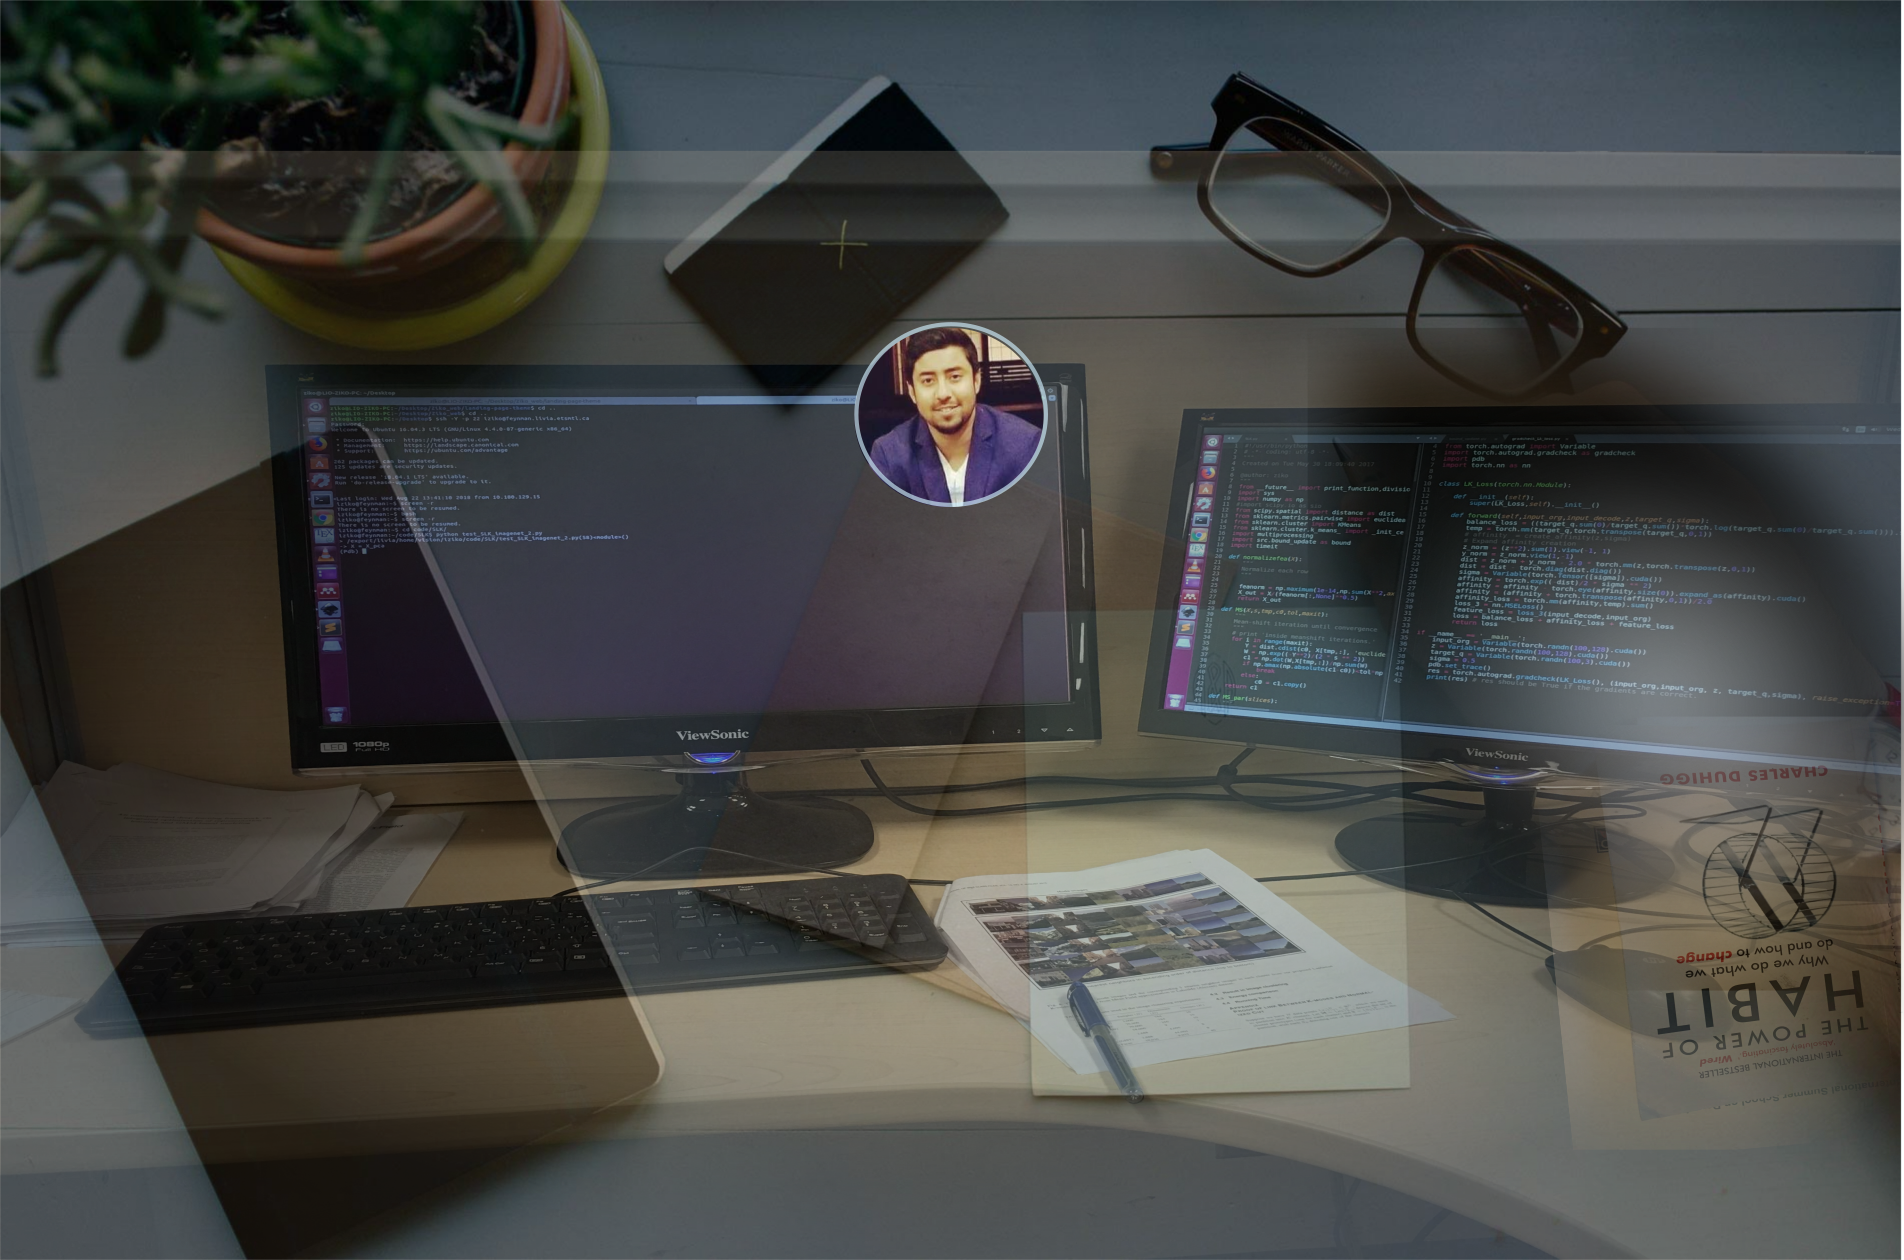
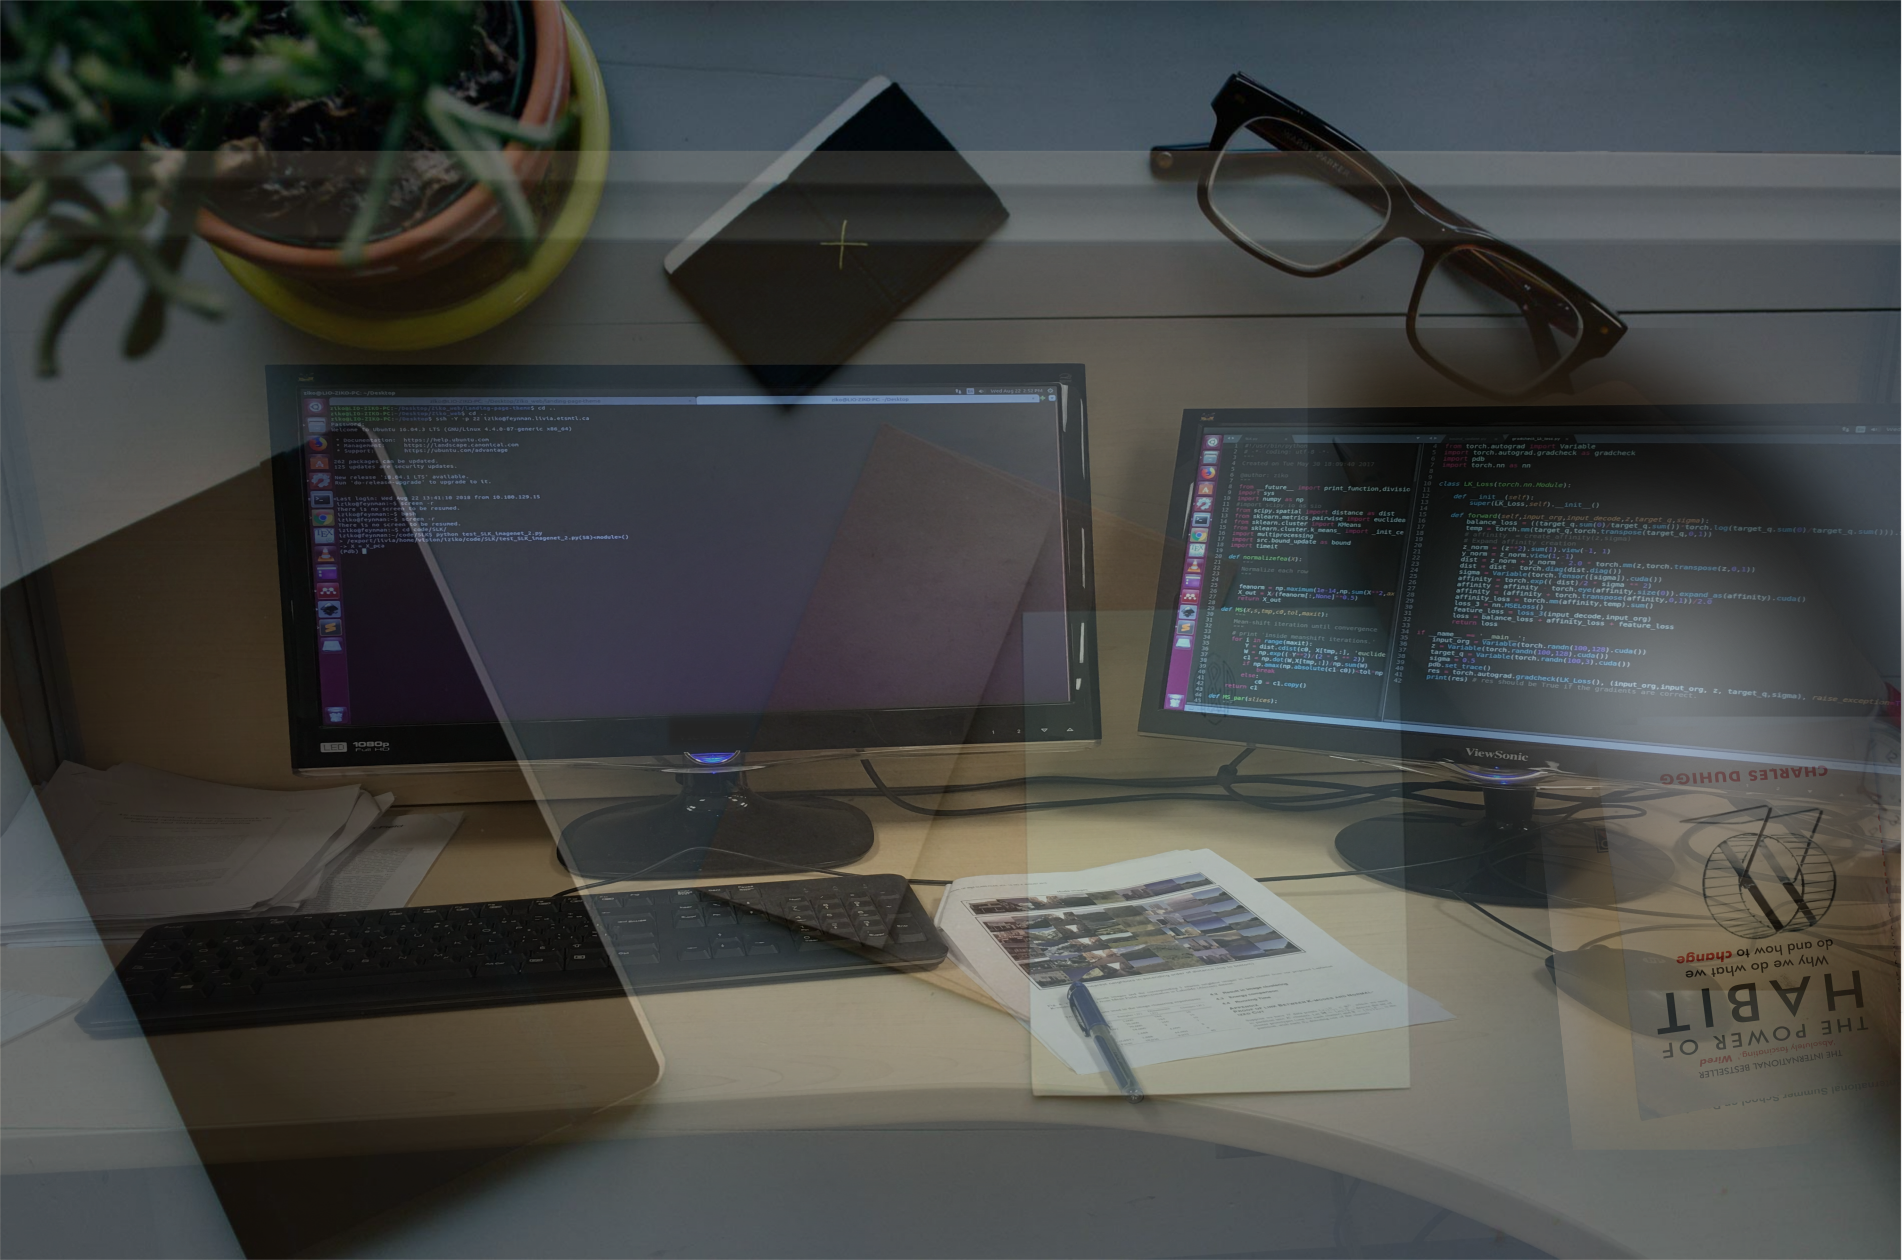
image fix

Changed region(s): [[0.4338, 0.2476, 0.5578, 0.4024]]

diff --git a/_site/css/landing-page.css b/_site/css/landing-page.css
@@ -27,18 +27,23 @@ h6 {
 }
 
 .intro-header {
-    padding-top: 50px; /* If you're making other pages, make sure there is 50px of padding to make sure the navbar doesn't overlap content! */
+    padding-top: 50px;  /*If you're making other pages, make sure there is 50px of padding to make sure the navbar doesn't overlap content! */
     padding-bottom: 50px;
     text-align: center;
     color: #f8f8f8;
     background: url(../img/banner.png) no-repeat center center;
     background-size: cover;
+    /*background-size: 1830px 600px */
 }
 
 .intro-message {
     position: relative;
     padding-top: 20%;
     padding-bottom: 20%;
+}
+.img-circle {
+  border-radius: 50%;
+  border:3px solid #579CA6;
 }
 
 .intro-message > h1 {
@@ -110,7 +115,7 @@ h6 {
 }
 
 .banner {
-    padding: 100px 0;
+    padding: 50px 0;
     color: #f8f8f8;
     background: url(../img/banner2.png) no-repeat center center;
     background-size: cover;

diff --git a/css/landing-page.css b/css/landing-page.css
@@ -27,18 +27,23 @@ h6 {
 }
 
 .intro-header {
-    padding-top: 50px; /* If you're making other pages, make sure there is 50px of padding to make sure the navbar doesn't overlap content! */
+    padding-top: 50px;  /*If you're making other pages, make sure there is 50px of padding to make sure the navbar doesn't overlap content! */
     padding-bottom: 50px;
     text-align: center;
     color: #f8f8f8;
     background: url(../img/banner.png) no-repeat center center;
     background-size: cover;
+    /*background-size: 1830px 600px */
 }
 
 .intro-message {
     position: relative;
     padding-top: 20%;
     padding-bottom: 20%;
+}
+.img-circle {
+  border-radius: 50%;
+  border:3px solid #579CA6;
 }
 
 .intro-message > h1 {
@@ -110,7 +115,7 @@ h6 {
 }
 
 .banner {
-    padding: 100px 0;
+    padding: 50px 0;
     color: #f8f8f8;
     background: url(../img/banner2.png) no-repeat center center;
     background-size: cover;

diff --git a/_site/index.html b/_site/index.html
@@ -9,6 +9,7 @@
 ">
     <meta name="author" content="Imtiaz Ziko">
 
+    <!-- <img class="img-responsive" src="img/IMG_3180.JPG" alt="" width="300" height="300"> -->
     <title>Imtiaz Masud Ziko</title>
 
     <!-- Bootstrap Core CSS -->
@@ -72,6 +73,7 @@
 			<div class="row">
 				<div class="col-lg-12">
 					<div class="intro-message">
+                        <img class="img-circle" src="img/IMG_3180.JPG" alt="" width="180" height="180">
 						<h1>Imtiaz Masud Ziko</h1>
 						<h3>PhD candidate (Machine learning)</h3>
 						<hr class="intro-divider">

diff --git a/_site/services/2016/09/23/publications/index.html b/_site/services/2016/09/23/publications/index.html
@@ -9,6 +9,7 @@
 ">
     <meta name="author" content="Imtiaz Ziko">
 
+    <!-- <img class="img-responsive" src="img/IMG_3180.JPG" alt="" width="300" height="300"> -->
     <title>Publications</title>
 
     <!-- Bootstrap Core CSS -->
@@ -72,6 +73,7 @@
 			<div class="row">
 				<div class="col-lg-12">
 					<div class="intro-message">
+                        <img class="img-circle" src="img/IMG_3180.JPG" alt="" width="180" height="180">
 						<h1>Publications</h1>
 						<h3></h3>
 						<hr class="intro-divider">

diff --git a/_site/services/2016/08/21/news/index.html b/_site/services/2016/08/21/news/index.html
@@ -9,6 +9,7 @@
 ">
     <meta name="author" content="Imtiaz Ziko">
 
+    <!-- <img class="img-responsive" src="img/IMG_3180.JPG" alt="" width="300" height="300"> -->
     <title>News</title>
 
     <!-- Bootstrap Core CSS -->
@@ -72,6 +73,7 @@
 			<div class="row">
 				<div class="col-lg-12">
 					<div class="intro-message">
+                        <img class="img-circle" src="img/IMG_3180.JPG" alt="" width="180" height="180">
 						<h1>News</h1>
 						<h3></h3>
 						<hr class="intro-divider">

diff --git a/_includes/head.html b/_includes/head.html
@@ -6,6 +6,7 @@
     <meta name="description" content="{{ site.description }}">
     <meta name="author" content="{{ site.author }}">
 
+    <!-- <img class="img-responsive" src="img/IMG_3180.JPG" alt="" width="300" height="300"> -->
     <title>{% if page.title %}{{ page.title }}{% else %}{{ site.title }}{% endif %}</title>
 
     <!-- Bootstrap Core CSS -->

diff --git a/_includes/header.html b/_includes/header.html
@@ -39,6 +39,7 @@
 			<div class="row">
 				<div class="col-lg-12">
 					<div class="intro-message">
+                        <img class="img-circle" src="img/IMG_3180.JPG" alt="" width="180" height="180">
 						<h1>{{ page.title }}</h1>
 						<h3>{{ page.subTitle }}</h3>
 						<hr class="intro-divider">
